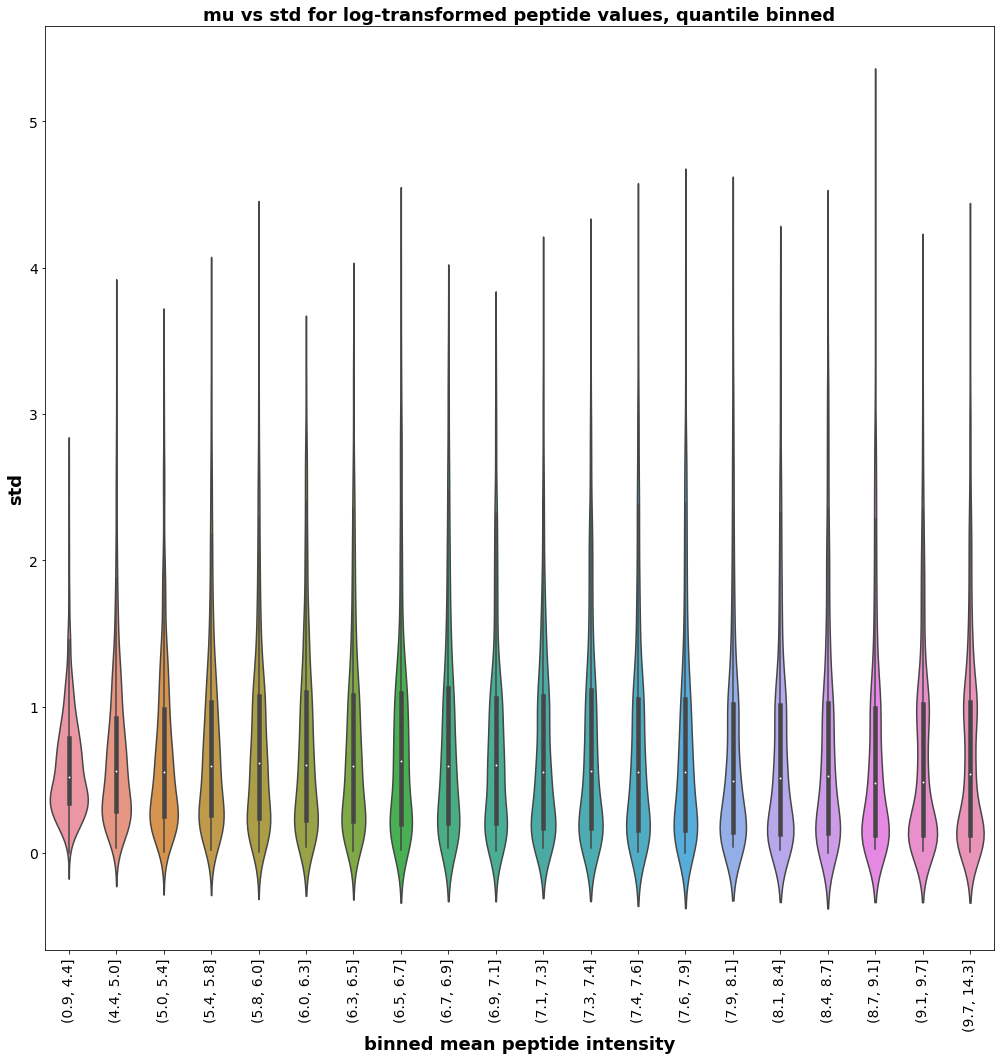
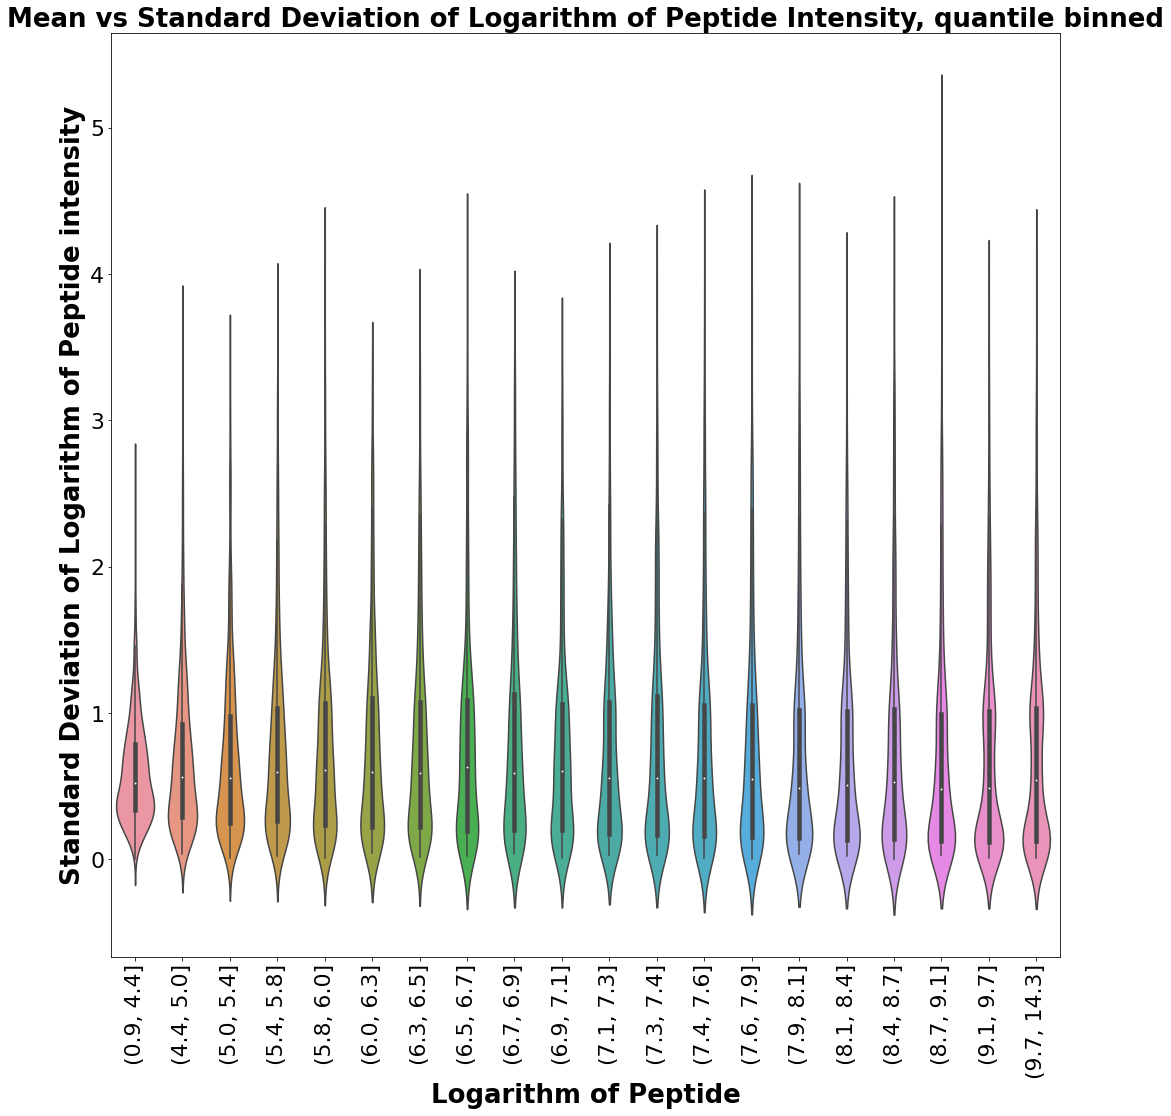
updated doc and results with violin plots, and missing value fraction fitting to pmissing function in triqler

Changed region(s): [[0.0, 0.0, 1.0, 0.9962], [0.961, 0.9028, 0.992, 0.9651]]

diff --git a/doc/benchmark/benchmark.tex b/doc/benchmark/benchmark.tex
@@ -69,7 +69,7 @@ In the original study, Navarro et al. included a benchmark of different protein 
 \subsubsection*{Mass spectrometry data}
 
 
-We downloaded the LFQBench dataset~\cite{navarro2016multicenter} from PRIDE identifier PXD002952. Here we used the TripleTOF6600 (ABSciex) section of the study, which was harvested with a setup of 32 fixed windows ms2-windows. \todo{what did we do with the TripleTOF5600 data? [ANSWER: We did not do anything with this sample, but I could easy run everything on the TTOF5600 sample as well]} We also restricted ourselves to the low ratio difference samples, reffered to as the HYE124 hybrid proteome samples in the original study. That consists of tripplicates of Sample A composed of tryptically digested proteins from 65\% w/w HeLa, 30\% w/w yeast, and 5\% w/w E. coli cells, and tripplicates of Sample B, composed of 65\% w/w, 15\% w/w yeast, and 20\% w/w E. coli proteins. Further details about mass spectrometric instrumentation and data acquisition are available in Navarro et al.~\cite{navarro2016multicenter}. \todo{What did we do with the HYE110 samples?}   
+We downloaded the LFQBench dataset~\cite{navarro2016multicenter} from PRIDE identifier PXD002952. Here we used the TripleTOF6600 (ABSciex) section of the study, which was harvested with a setup of 32 fixed windows ms2-windows. \todo{what did we do with the TripleTOF5600 data? [ANSWER: We did not do anything with this sample, but I could easy run everything on the TTOF5600 sample as well]} We also restricted ourselves to the low ratio difference samples, reffered to as the HYE124 hybrid proteome samples in the original study. That consists of triplicates of Sample A composed of tryptically digested proteins from 65\% w/w HeLa, 30\% w/w yeast, and 5\% w/w E. coli cells, and triplicates of Sample B, composed of 65\% w/w, 15\% w/w yeast, and 20\% w/w E. coli proteins. Samples from HYE110 and the TripleTOF5600 section of HYE124 was omitted in this study. Further details about mass spectrometric instrumentation and data acquisition are available in Navarro et al.~\cite{navarro2016multicenter}. \todo{What did we do with the HYE110 samples?}   
 The \verb|.wiff| files were converted to \verb|.mzML| files in a centroided format using msconvert (using windows OS msconvert version X.X) with the following options: [check options]. 
 
 
@@ -92,8 +92,10 @@ For Prosit-based spectral library generation, the FASTA file was converted to Pr
 
 \subsubsection*{Pseudo Spectrum generation (PS)}
 
- For the PS workflow we also used the fragpipe software, employing DIA-Umpire to extract pseudo-spectra from the DIA data. The pseudo-spectra were subsequently searched using using MSFragger with a precursor mass tolerance of -20, 20] ppms, fragment tolerance of 20 ppms, and allowing for [M, [\^, nQnC, nE] variable modifications \todo{What is meant with "[M, [\^, nQnC, nE]"? ANSWER: The modifications in fragpipe}. A spectral library was build from the resulting PSMs at a PSM-level treshold of FIXME using easyPQP that was used for peptide quantifications with DIA-NN. The DIA-NN uses a mProphet-based algorithm for statistical validation \cite{reiter2011mprophet} \cite{demichev2020dia}. \todo{I do not get this. What is mProphet used for at this step? ANSWER: I explains how DIA-NN calcullated q-values} 
+ For the PS workflow we also used the fragpipe software, employing DIA-Umpire to extract pseudo-spectra from the DIA data. The pseudo-spectra were subsequently searched using using MSFragger with a precursor mass tolerance of -20, 20] ppms, fragment tolerance of 20 ppms, and allowing for [M,[\^{}] variable modifications ("M" - oxidation on methionine and "\^{}" is a terminus modifier for protein N-terminal) \todo{What is meant with "[M, [\^, nQnC, nE]"? ANSWER: The modifications in fragpipe}. A spectral library was build from the resulting PSMs at a PSM-level treshold of FIXME using easyPQP that was used for peptide quantifications with DIA-NN. The DIA-NN uses a built-in mProphet algorithm with decoy precursors to compute the q-values. \cite{reiter2011mprophet} \cite{demichev2020dia}. \todo{I do not get this. What is mProphet used for at this step? ANSWER: I explains how DIA-NN calcullated q-values} 
 
+% VARIABLE MODIFICATION 
+% https://github-wiki-see.page/m/Nesvilab/MSFragger/wiki/Setting-the-Parameters 
 
 \subsection*{Database searching}
 For both workflow we matched spectra and psudo-spectra with MSFragger with parameters: [check parameters], and used pepide-prophet for statistical validation was performed by peptide prophet and protein prophet.
@@ -283,7 +285,7 @@ We strived to validate the Triqler method for a DIA setting. We hence investigat
     A & \includegraphics[width=0.6\linewidth]{../../result/report_plots/peptide_mu_vs_std.png} \\
     B & %\includegraphics[width=0.3\linewidth]{FIXME}
     \end{tabular}
-    \caption{{\bf (THIS IS OLD THE PLOT)The assumtions that Triqler makes about peptide abundance values are valid also for DIA data in the TripleTOF6600 section of the LFQ Bench set.}  (A) We plotted the standard deviation as a function of the mean of every peptide  in log-log scale. We observe a nearly uniform offset in standard deviation across the intensity scale, demonstrating that $\log(\sigma) \approx \log(\mu) + \log(k)$ and hence   $\sigma \approx \mu k$ (B) We plotted the fraction of peptides observing one missing value for each triplicate in the set. We obseve that this empirical distribution roughly follows the assumed function FIXME.}
+    \caption{{\bf (THIS IS OLD THE PLOT)The assumtions that Triqler makes about peptide abundance values are valid also for DIA data in the TripleTOF6600 section of the LFQ Bench set.}  (A) We plotted the standard deviation as a function of the mean of every peptide  in log-log scale. We observe a nearly uniform offset in standard deviation across the intensity scale, demonstrating that $\log(\sigma) \approx \log(\mu) + \log(k)$ and hence   $\sigma \approx \mu k$ (B) We plotted the fraction of peptides observing one missing value for each triplicate in the set. We obseve that this empirical distribution roughly follows the assumed function FIXMeE.}
       \label{fig:assumptions}
 \end{figure}
 
@@ -292,10 +294,12 @@ We strived to validate the Triqler method for a DIA setting. We hence investigat
 \begin{figure}[H]
     \centering
     \begin{tabular}{lclc} 
-        A \includegraphics[width=0.5\linewidth]{../../result/report_plots/osw_sigma_mu_violinplot_filtered.png}  & &%\includegraphics[width=0.3\linewidth]{} & 
-        C \includegraphics[width=0.5\linewidth]{../../result/report_plots/diann_sigma_mu_violinplot_filtered.png} & \\%\includegraphics[width=0.3\linewidth]{} \\ 
+        A \includegraphics[width=0.5\linewidth]{../../result/report_plots/osw_sigma_mu_violinplot_qval_filtered_peptide_filtered_qbinned.png}  & &%\includegraphics[width=0.3\linewidth]{} & 
+        B \includegraphics[width=0.5\linewidth]{../../result/report_plots/diann_sigma_mu_violinplot_qval_filtered_peptide_filtered_qbinned.png} & \\%\includegraphics[width=0.3\linewidth]{} \\ 
+        C \includegraphics[width=0.5\linewidth]{../../result/report_plots/osw_fraction_missing_values.png}  & &%\includegraphics[width=0.3\linewidth]{} & 
+        D \includegraphics[width=0.5\linewidth]{../../result/report_plots/diann_fraction_missing_values.png} & \\%\includegraphics[width=0.3\linewidth]{} \\ 
     \end{tabular}
-    \caption{{\bf The assumtions that Triqler makes about peptide abundance values are valid also for DIA data in the TripleTOF6600 section of the LFQ Bench set.}  (A) We plotted the standard deviation as a function of the mean of every peptide  in log-log scale. We observe a nearly uniform offset in standard deviation across the intensity scale, demonstrating that $\log(\sigma) \approx \log(\mu) + \log(k)$ and hence   $\sigma \approx \mu k$ (B) We plotted the fraction of peptides observing one missing value for each triplicate in the set. We obseve that this empirical distribution roughly follows the assumed function FIXME.}
+    \caption{{\bf The assumtions that Triqler makes about peptide abundance values are valid also for DIA data in the TripleTOF6600 section of the LFQ Bench set.}  (A) We plotted the standard deviation as a function of the mean of every peptide  in log-log scale. We observe a nearly uniform offset in standard deviation across the intensity scale, demonstrating that $\log(\sigma) \approx \log(\mu) + \log(k)$ and hence   $\sigma \approx \mu k$ (B) We plotted the fraction of peptides observing one missing value for each triplicate in the set. We obseve that this empirical distribution roughly follows the assumed function FIXMEe.}
       \label{fig:assumptions}
 \end{figure}
 
